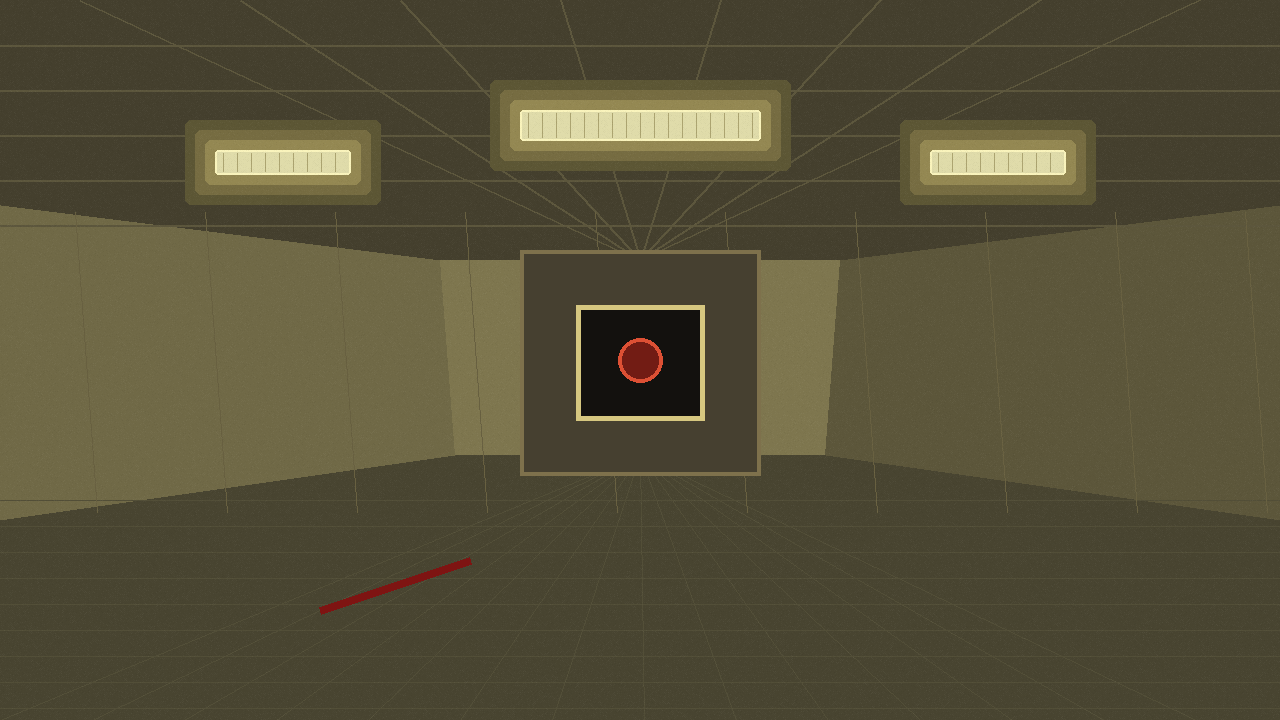
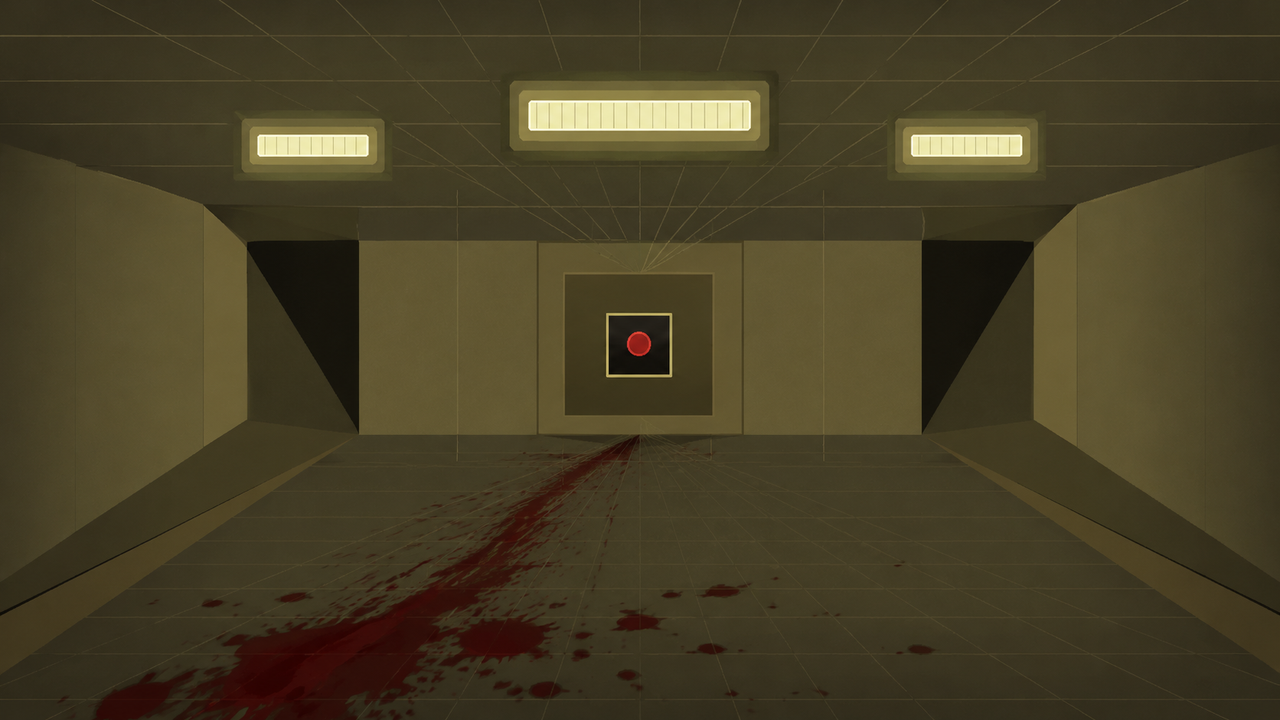
Replace left switch room background

diff --git a/tools/generate_assets.py b/tools/generate_assets.py
@@ -17,6 +17,7 @@ SOURCE = ROOT / "assets" / "source"
 HUMAN_PANEL_CUTOUT = SOURCE / "human_panel_cutout.png"
 FORK_STOP_REFERENCE = SOURCE / "fork_stop_reference.png"
 LEFT_BLOOD_PATH_REFERENCE = SOURCE / "left_blood_path_reference.png"
+LEFT_SWITCH_ROOM_REFERENCE = SOURCE / "left_switch_room_reference.png"
 W, H = 1280, 720
 
 # Current visual mode is a polished placeholder: positions stay readable, but
@@ -393,6 +394,9 @@ def scene_left_blood_path() -> Image.Image:
 
 
 def scene_left_switch_room() -> Image.Image:
+    if LEFT_SWITCH_ROOM_REFERENCE.exists():
+        return cover_reference(LEFT_SWITCH_ROOM_REFERENCE)
+
     img, draw = blockout_room("BLOCKOUT: LEFT_SWITCH_ROOM")
     draw.rectangle((520, 250, 760, 475), fill=(70, 64, 48), outline=LINE, width=4)
     draw.rectangle((576, 305, 704, 420), fill=(19, 17, 14), outline=HOT, width=5)
